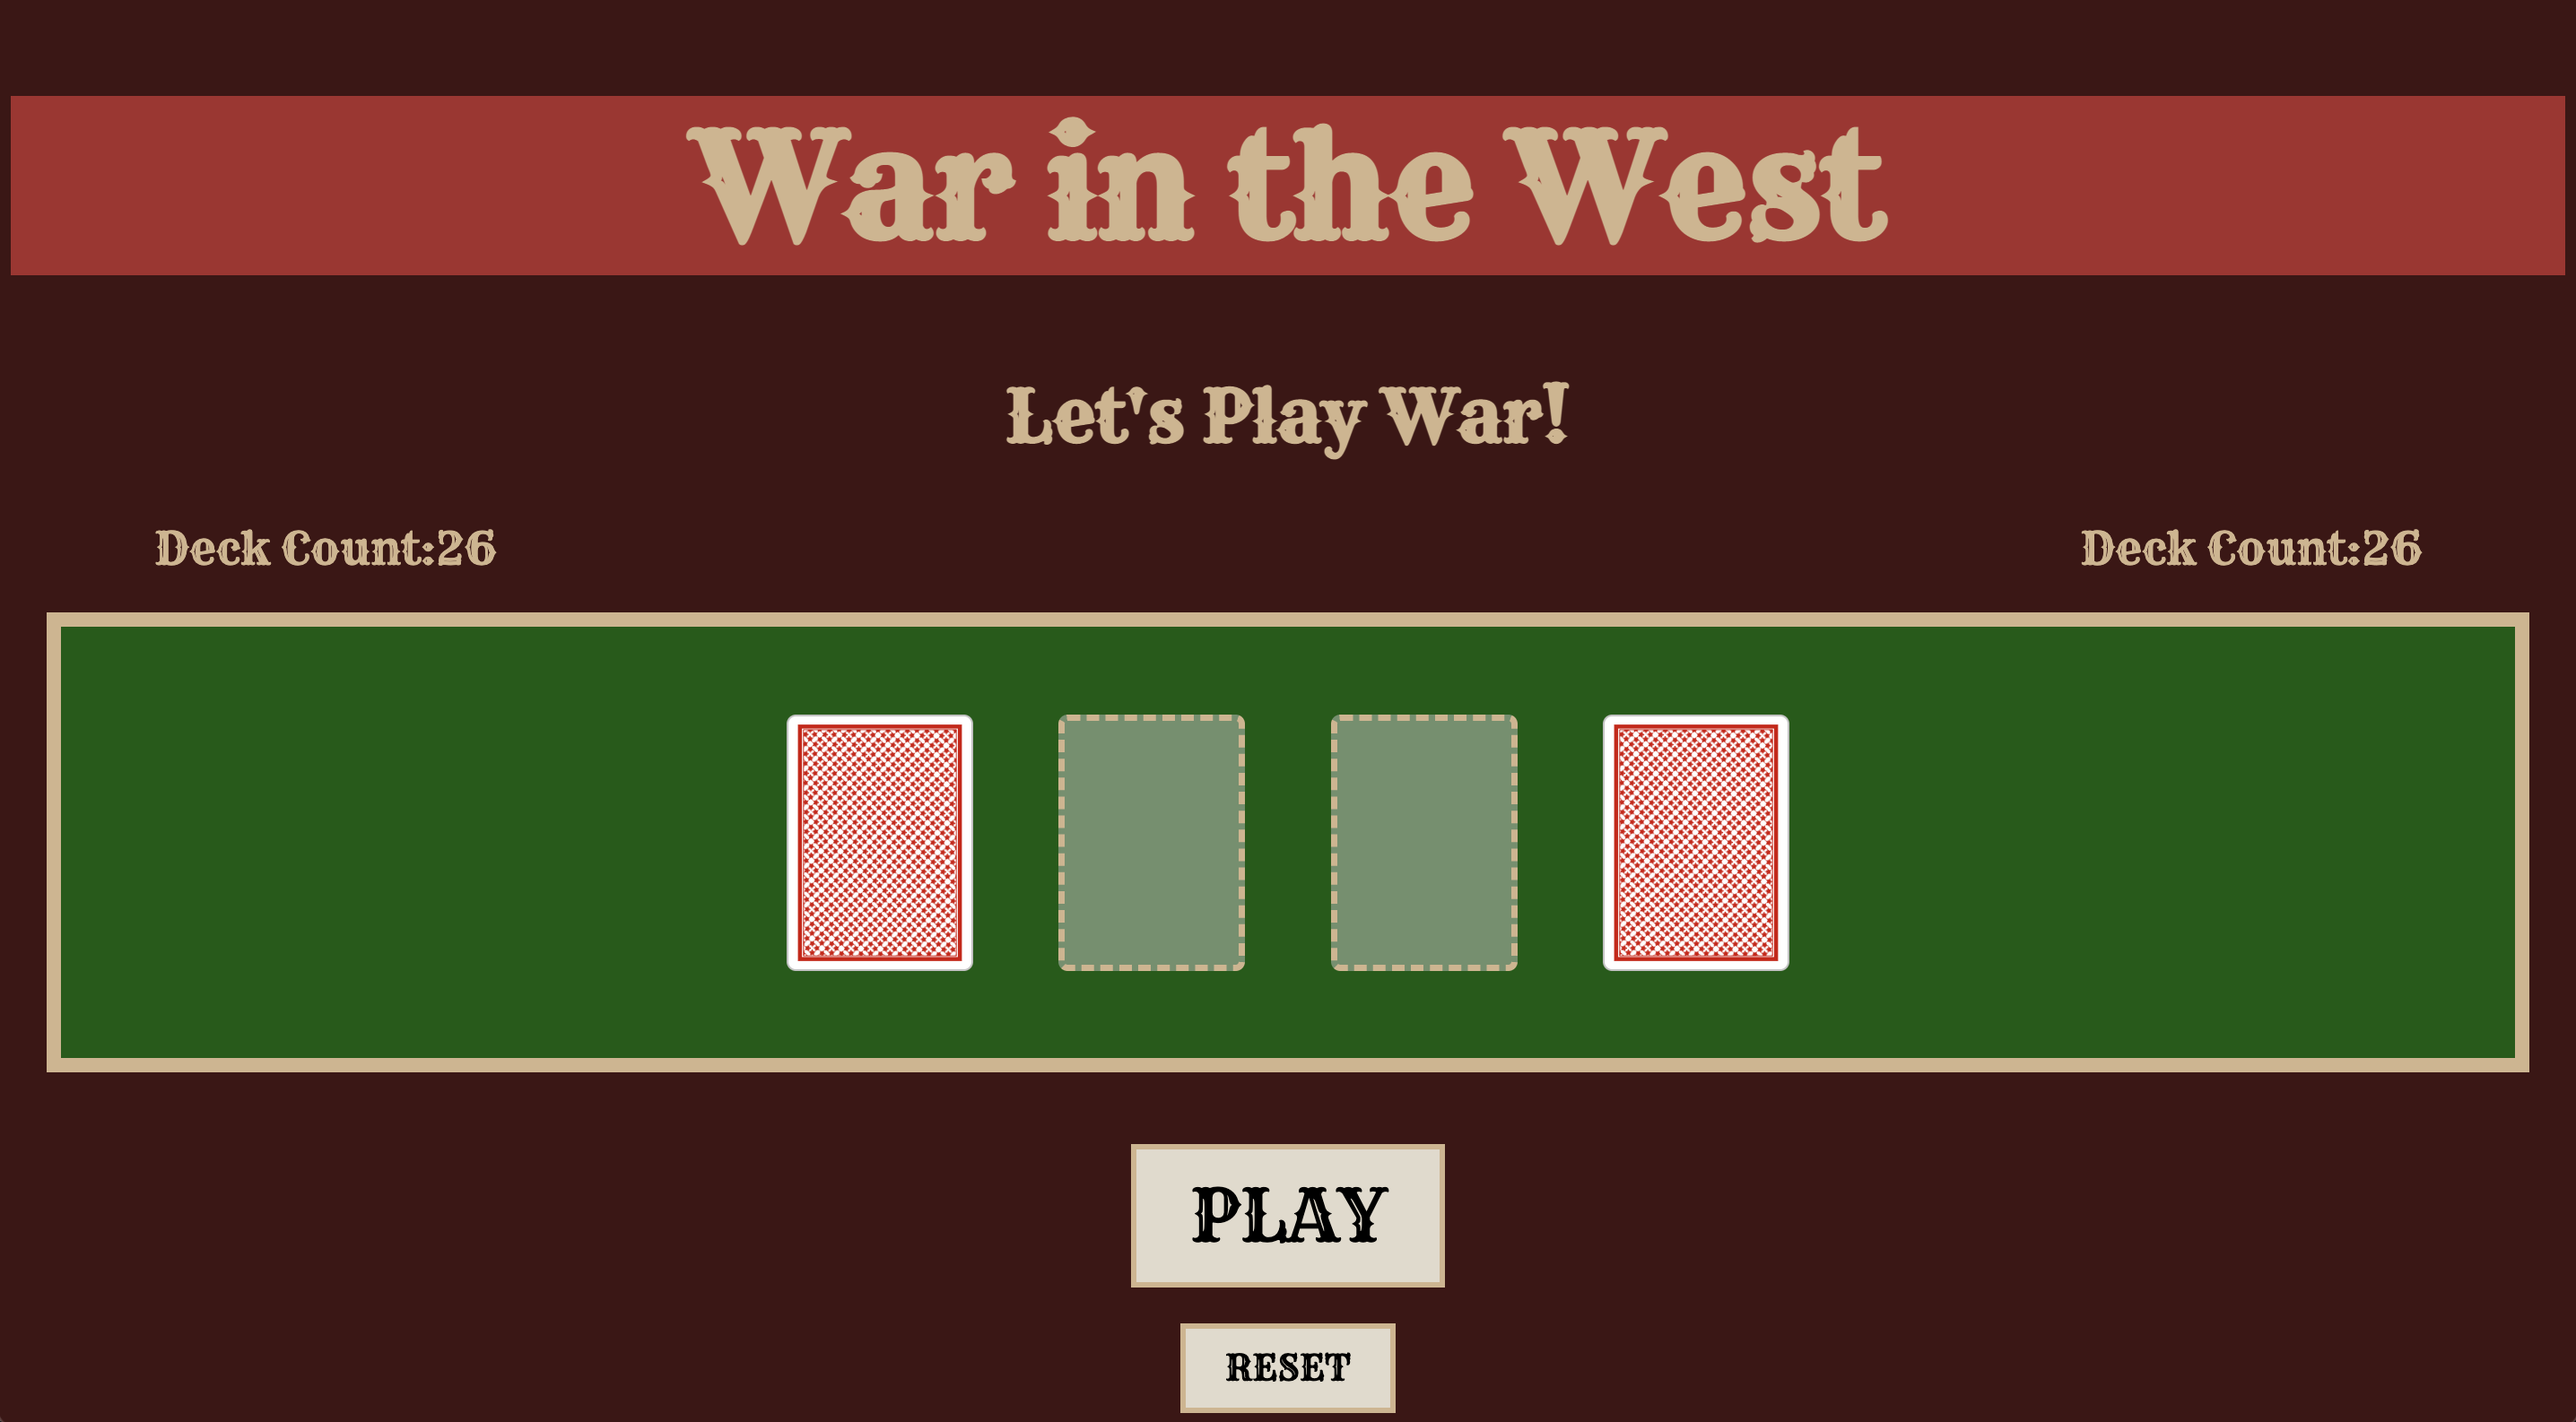
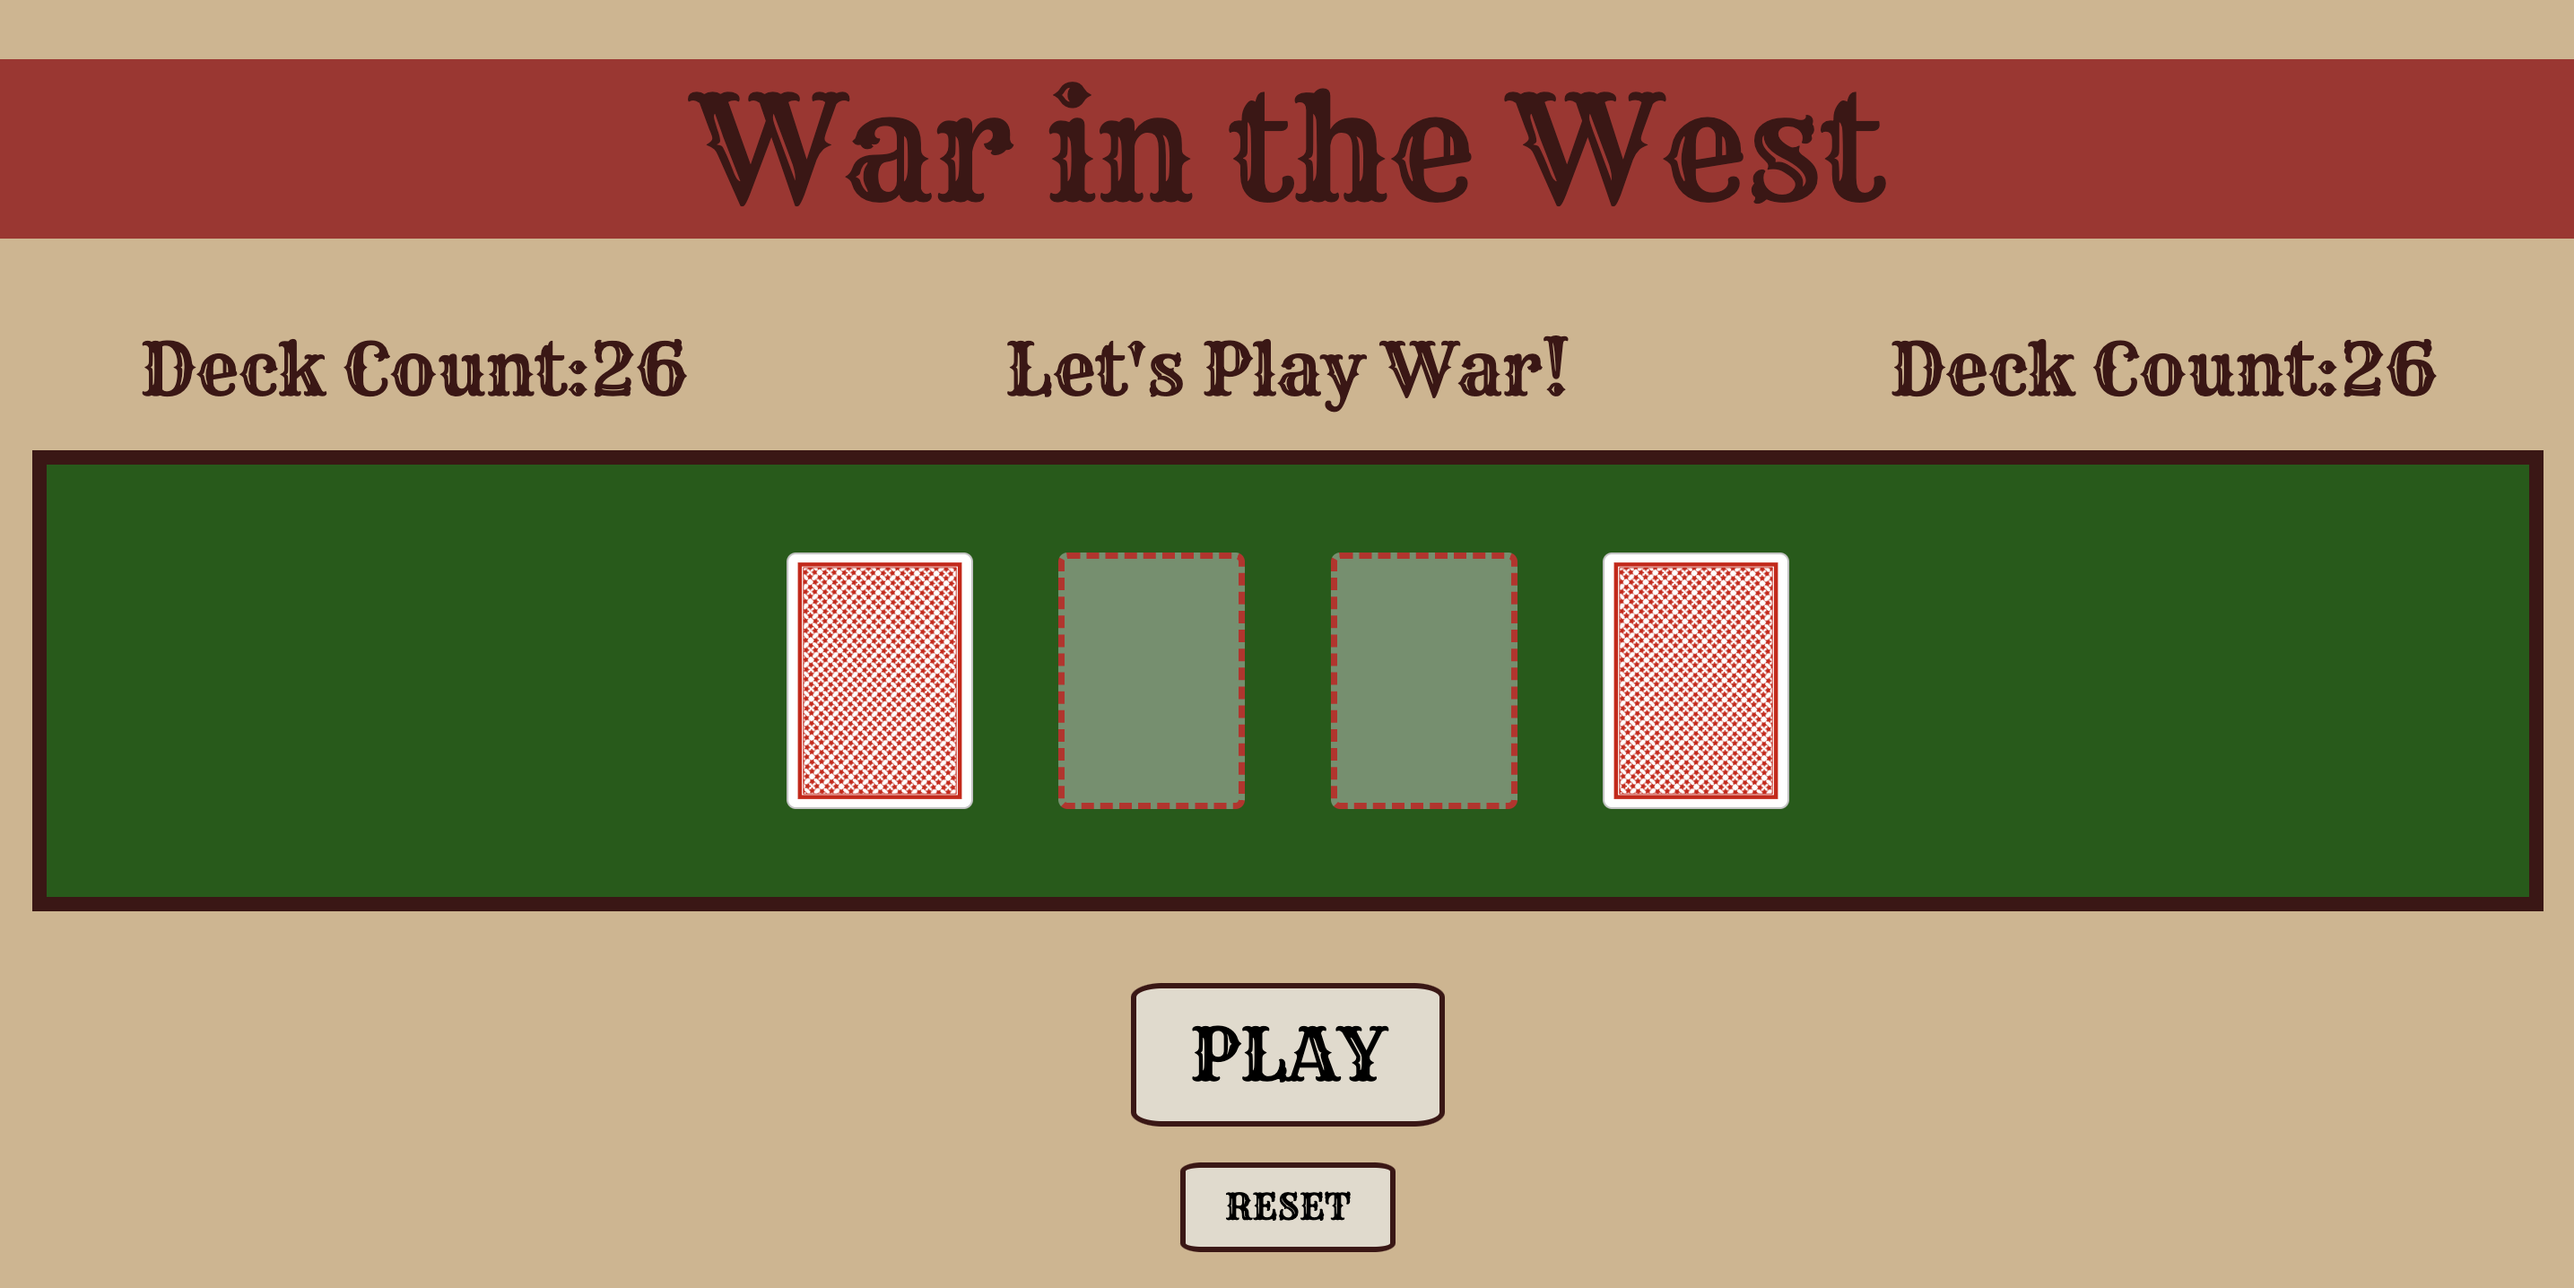
update color scheme

diff --git a/css/style.css b/css/style.css
@@ -1,8 +1,10 @@
 body {
-  background-color: #3f1414;
+  /* background-color: #3f1414; */
+  background-color: tan;
   height: 40vmax;
-  color: tan;
+  color: #3f1414;
   font-family: 'Rye', cursive;
+  margin: 0;
 }
 
 h1{
@@ -10,7 +12,7 @@ h1{
   flex-direction: column;
   align-items: center;
   justify-content: center;
-  background-color: rgb(167, 45, 45);
+  background-color: rgb(174, 42, 42);
   margin: 36px 0px 48px 0px;
 }
 
@@ -27,7 +29,7 @@ h2{
   flex-direction: row;
   justify-content: center;
   align-items: center;
-  border: 8px solid tan;
+  border: 8px solid #3f1414;
   background-color: rgb(11, 91, 11);
   margin: 20px;
   padding: 25px;
@@ -47,6 +49,8 @@ h2{
 
 h1 {
   font-size: 80px;
+  font-weight: normal;
+  color: #351010;
 }
 
 h2 {
@@ -64,7 +68,7 @@ h2 {
   height: 80px;
   width: 175px;
   margin: 20px;
-  border: 3px solid tan;
+  border: 3px solid #3f1414;
   border-radius: 10%;
   background-color: rgb(225, 218, 204);
   font-size: 40px;
@@ -73,14 +77,14 @@ h2 {
 
 #playbtn:hover {
   cursor: pointer;
-  background-color: tan;
+  background-color: #3f1414;
   color: brown;
 }
 
 #resetbtn {
   height: 50px;
   width: 120px;
-  border: 3px solid tan;
+  border: 3px solid #3f1414;
   border-radius: 10%;
   background-color: rgb(225, 218, 204);
   font-size: 20px;
@@ -89,7 +93,7 @@ h2 {
 
 #resetbtn:hover {
   cursor: pointer;
-  background-color: tan;
+  background-color: #3f1414;
   color: brown;
 }
 
@@ -99,6 +103,6 @@ h2 {
   align-items: center;
   justify-content: center;
   justify-content: space-between;
-  font-size: 25px;
+  font-size: 40px;
   margin: 0px 80px 0px 80px;
 }

diff --git a/index.html b/index.html
@@ -16,10 +16,10 @@
 <body>
 
   <h1>War in the West</h1>
-  <h2 id="message">Let's Play War!</h2>
   
   <div class="deck-count">
     <div id="deck-1-count">0</div>
+    <div id="message">Let's Play War!</div>
     <div id="deck-2-count">0</div>
   </div>
   
